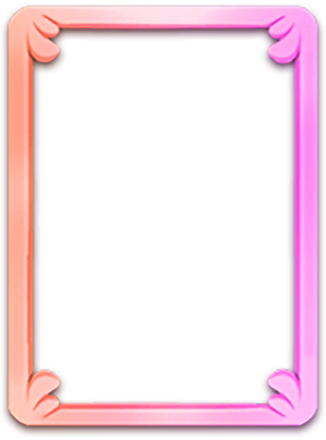
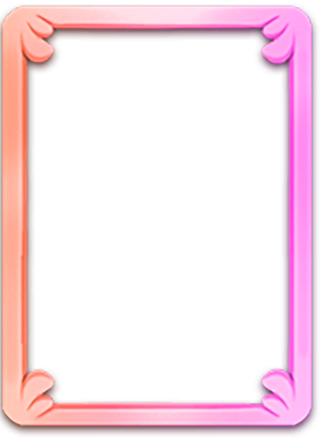
Implementation of image frames
- implementation of image frames on wizards, assistantCards and characterCards

Changed region(s): [[0.0, 0.0, 0.9688, 1.0], [0.8125, 0.1187, 0.8438, 0.1484], [0.8125, 0.0594, 0.8438, 0.089]]

diff --git a/client/src/main/java/it/polimi/ingsw/javangers/client/view/gui/GUIGameDisplayer.java b/client/src/main/java/it/polimi/ingsw/javangers/client/view/gui/GUIGameDisplayer.java
@@ -182,18 +182,33 @@ public class GUIGameDisplayer {
 
          */
     }
+    private void setInvisibleCharacterCardsFrames(){
+        List<String> cardNameList = new ArrayList<>(directivesParser.getCharacterCardNames());
+        for (String s : cardNameList) {
+            ImageView imv = null;
+            imv = (ImageView) this.characterCardsGridPane.lookup("#frame_" + s);
+            imv.setVisible(false);
+        }
+    }
 
     private void displayCharacterCards() {
+        Image frame = new Image(GUIController.class.getResource("images/selection-frame.png").toString());
         for (int i = 0; i < directivesParser.getCharacterCardNames().size(); i++) {
             Image image = new Image(GUIGameDisplayer.class.getResource("images/characterCards/" + directivesParser.getCharacterCardNames().get(i) + ".png").toString());
             ImageView imv = new ImageView();
+            ImageView frameImv = new ImageView();
             imv.setImage(image);
             imv.setId(directivesParser.getCharacterCardNames().get(i));
             imv.setFitWidth(109);
             imv.setFitHeight(160);
             imv.setOnMouseClicked(this::selectCharacterCard);
+            frameImv.setImage(frame);
+            frameImv.setId("frame_"+directivesParser.getCharacterCardNames().get(i));
+            frameImv.setFitWidth(120);
+            frameImv.setFitHeight(170);
+            frameImv.setVisible(false);
             characterCardsGridPane.add(imv, i, 0);
-
+            characterCardsGridPane.add(frameImv, i, 0);
         }
     }
 
@@ -335,29 +350,56 @@ public class GUIGameDisplayer {
         this.anchorPane.getChildren().add(imv);
     }
 
+    private void setInvisibleAssistantCardsFrames(){
+        List<String> cardNameList = new ArrayList<>(directivesParser.getDashboardAssistantCards(this.username).keySet());
+        for (String s : cardNameList) {
+            ImageView imv = null;
+            imv = (ImageView) this.assistantCardsGridPane.lookup("#frame_" + s);
+            imv.setVisible(false);
+        }
+    }
+
     private void displayAvailableAssistantCards() {
         Image image = null;
+        Image frame = new Image(GUIController.class.getResource("images/selection-frame.png").toString());
         List<String> cardNameList = new ArrayList<>(directivesParser.getDashboardAssistantCards(this.username).keySet());
         for (int i = 0; i < cardNameList.size(); i++) {
             image = new Image(GUIGameDisplayer.class.getResource("images/assistantCards/" + cardNameList.get(i) + ".png").toString());
             ImageView imv = new ImageView();
+            ImageView frameImv = new ImageView();
             imv.setImage(image);
             imv.setId(cardNameList.get(i));
             imv.setFitWidth(109);
             imv.setFitHeight(160);
             imv.setOnMouseClicked(this::selectAssistantCard);
+            frameImv.setImage(frame);
+            frameImv.setId("frame_"+cardNameList.get(i));
+            frameImv.setFitWidth(120);
+            frameImv.setFitHeight(170);
+            frameImv.setVisible(false);
             assistantCardsGridPane.add(imv, i % 5, i / 5);
+            assistantCardsGridPane.add(frameImv, i % 5, i / 5);
         }
     }
 
     @FXML
     private void selectAssistantCard(MouseEvent event) {
-        assistantCardChosen = ((ImageView) event.getSource()).getId();
+        setInvisibleAssistantCardsFrames();
+        ImageView imv = new ImageView();
+        ImageView frame = new ImageView();
+        this.assistantCardChosen = ((ImageView) event.getSource()).getId();
+        frame = (ImageView) this.assistantCardsGridPane.lookup("#frame_"+this.assistantCardChosen);
+        frame.setVisible(true);
     }
 
     @FXML
     private void selectCharacterCard(MouseEvent event) {
-        characterCardChosen = ((ImageView) event.getSource()).getId();
+        setInvisibleCharacterCardsFrames();
+        ImageView imv = new ImageView();
+        ImageView frame = new ImageView();
+        this.characterCardChosen = ((ImageView) event.getSource()).getId();
+        frame = (ImageView) this.characterCardsGridPane.lookup("#frame_"+this.characterCardChosen);
+        frame.setVisible(true);
     }
 
     @FXML

diff --git a/client/src/main/java/it/polimi/ingsw/javangers/client/view/gui/GUIController.java b/client/src/main/java/it/polimi/ingsw/javangers/client/view/gui/GUIController.java
@@ -129,7 +129,12 @@ public class GUIController extends View implements Initializable {
 
     @FXML
     protected void selectWizard(MouseEvent event) {
+        setInvisibleWizardFrames();
+        ImageView imv = new ImageView();
+        ImageView frame = new ImageView();
         this.wizardType = ((ImageView) event.getSource()).getId();
+        frame = (ImageView) this.wizardsGridPane.lookup("#frame_"+this.wizardType);
+        frame.setVisible(true);
     }
 
     protected void alertMessage(String headerText, String contentText) {
@@ -139,17 +144,34 @@ public class GUIController extends View implements Initializable {
 
     }
 
+    private void setInvisibleWizardFrames(){
+        List<String> cardNameList = new ArrayList<>(AVAILABLE_WIZARD_TYPES.values());
+        for (String s : cardNameList) {
+            ImageView imv = null;
+            imv = (ImageView) this.wizardsGridPane.lookup("#frame_" + s);
+            imv.setVisible(false);
+        }
+    }
+
     private void displayWizards() {
+        Image frame = new Image(GUIController.class.getResource("images/selection-frame.png").toString());
         List<String> cardNameList = new ArrayList<>(AVAILABLE_WIZARD_TYPES.values());
         for (int i = 0; i < cardNameList.size(); i++) {
             Image image = new Image(GUIController.class.getResource("images/wizards/" + cardNameList.get(i).toLowerCase() + ".png").toString());
             ImageView imv = new ImageView();
+            ImageView frameImv = new ImageView();
             imv.setImage(image);
             imv.setId(cardNameList.get(i));
             imv.setFitWidth(81);
             imv.setFitHeight(120);
             imv.setOnMouseClicked(this::selectWizard);
+            frameImv.setImage(frame);
+            frameImv.setId("frame_"+cardNameList.get(i));
+            frameImv.setFitWidth(90);
+            frameImv.setFitHeight(126);
+            frameImv.setVisible(false);
             wizardsGridPane.add(imv, i % 2, i / 2);
+            wizardsGridPane.add(frameImv, i % 2, i / 2);
         }
     }
 
